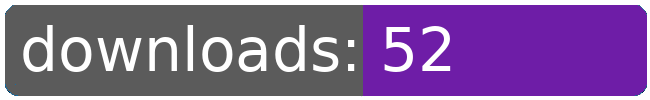
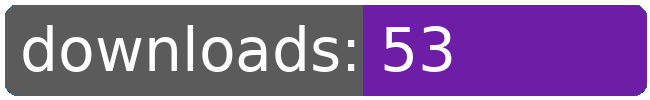
dl log written

Changed region(s): [[0.6462, 0.42, 0.7077, 0.72], [0.6462, 0.27, 0.7077, 0.39]]

diff --git a/README.md b/README.md
@@ -65,8 +65,8 @@
 		<td>10</td>
 		<td>10</td>
 		<td>10</td>
-		<td>10</td>
-		<td></td>
+		<td>11</td>
+		<td>+ 1</td>
 	</tr>
 	<tr>
 		<td></td>
@@ -76,8 +76,8 @@
 		<td></td>
 		<td></td>
 		<td></td>
-		<td>52</td>
-		<td>0</td>
+		<td>53</td>
+		<td>1</td>
 	</tr>
 </table>
 </sub></sup>
@@ -106,6 +106,17 @@
 		<td></td>
 	</tr>
 	<tr>
+		<td>disable.spaceport.repeatables</td>
+		<td>10</td>
+		<td>10</td>
+		<td>10</td>
+		<td>10</td>
+		<td>10</td>
+		<td>10</td>
+		<td>11</td>
+		<td>+ 1</td>
+	</tr>
+	<tr>
 		<td>automata.in.human.space</td>
 		<td>10</td>
 		<td>10</td>
@@ -114,17 +125,6 @@
 		<td>11</td>
 		<td>11</td>
 		<td>11</td>
-		<td></td>
-	</tr>
-	<tr>
-		<td>disable.spaceport.repeatables</td>
-		<td>10</td>
-		<td>10</td>
-		<td>10</td>
-		<td>10</td>
-		<td>10</td>
-		<td>10</td>
-		<td>10</td>
 		<td></td>
 	</tr>
 	<tr>
@@ -157,8 +157,8 @@
 		<td></td>
 		<td></td>
 		<td></td>
-		<td>52</td>
-		<td>0</td>
+		<td>53</td>
+		<td>1</td>
 	</tr>
 </table>
 </sub></sup>
